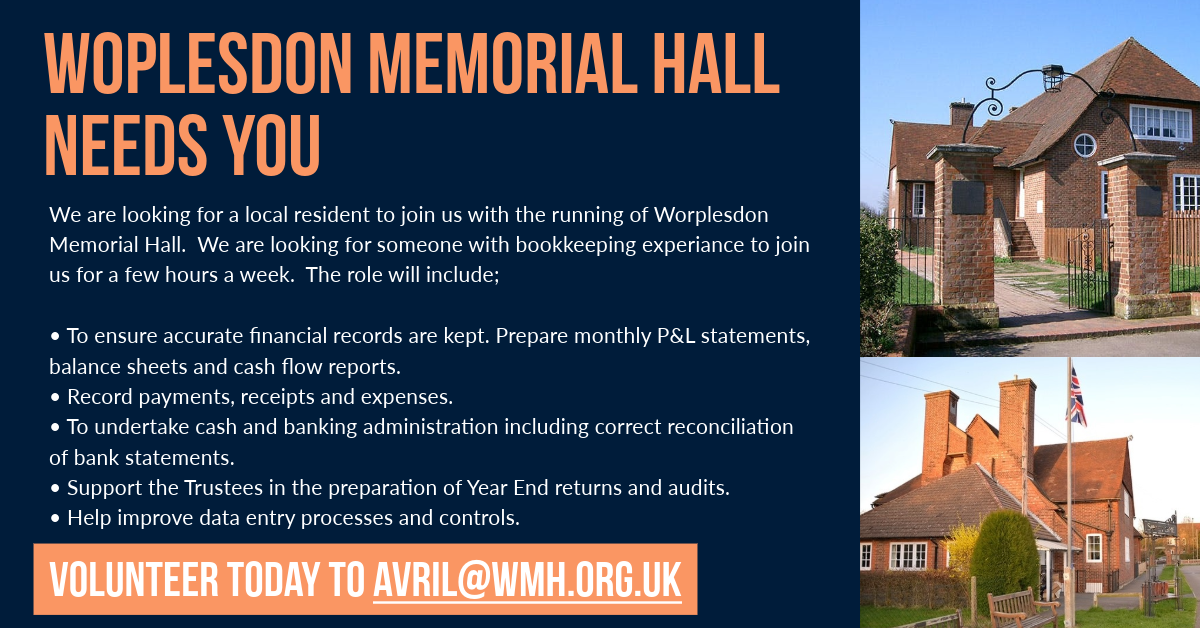
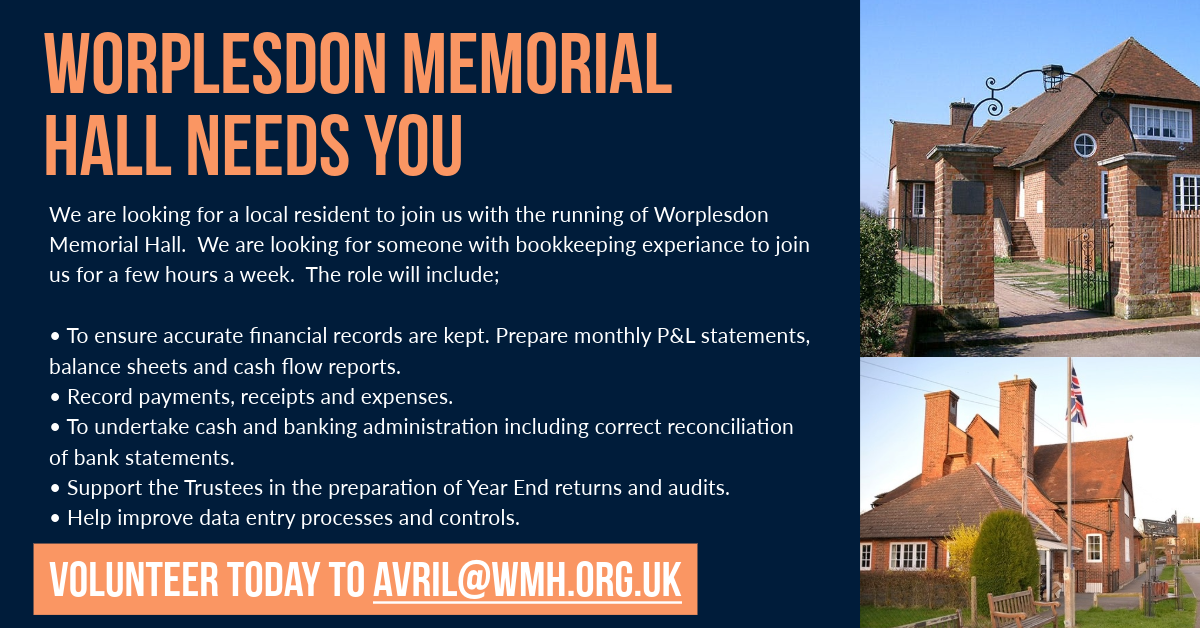
Updated Advert

Changed region(s): [[0.1233, 0.0303, 0.6475, 0.1513], [0.0308, 0.1815, 0.4008, 0.3025]]

diff --git a/src/app/home.component.html b/src/app/home.component.html
@@ -2,7 +2,7 @@
   <div class="container-fluid">
     <h1 class="display-4 text-center">Worplesdon Memorial Hall and Recreation Ground CIO</h1>
     <br>
-    <img style="margin:auto;display: block;width:750px" src="../assets/Bookkeeper Ad.jpg">
+    <img style="margin:auto;display: block;width:750px" src="../assets/Bookkeeper Ad.png">
     <br>
     <ngb-carousel [interval]="3000" class="carousel slide" style="max-width: 750px;margin: auto;margin-bottom: 20px;">
       <ng-template ngbSlide *ngFor="let img of grounds">
